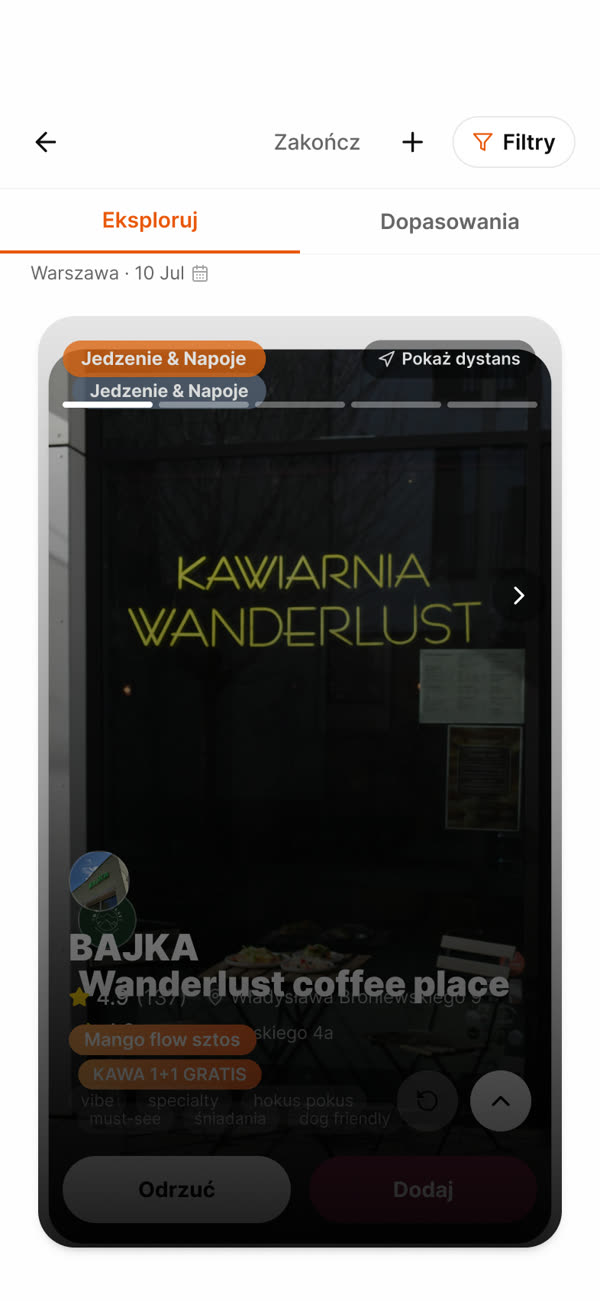
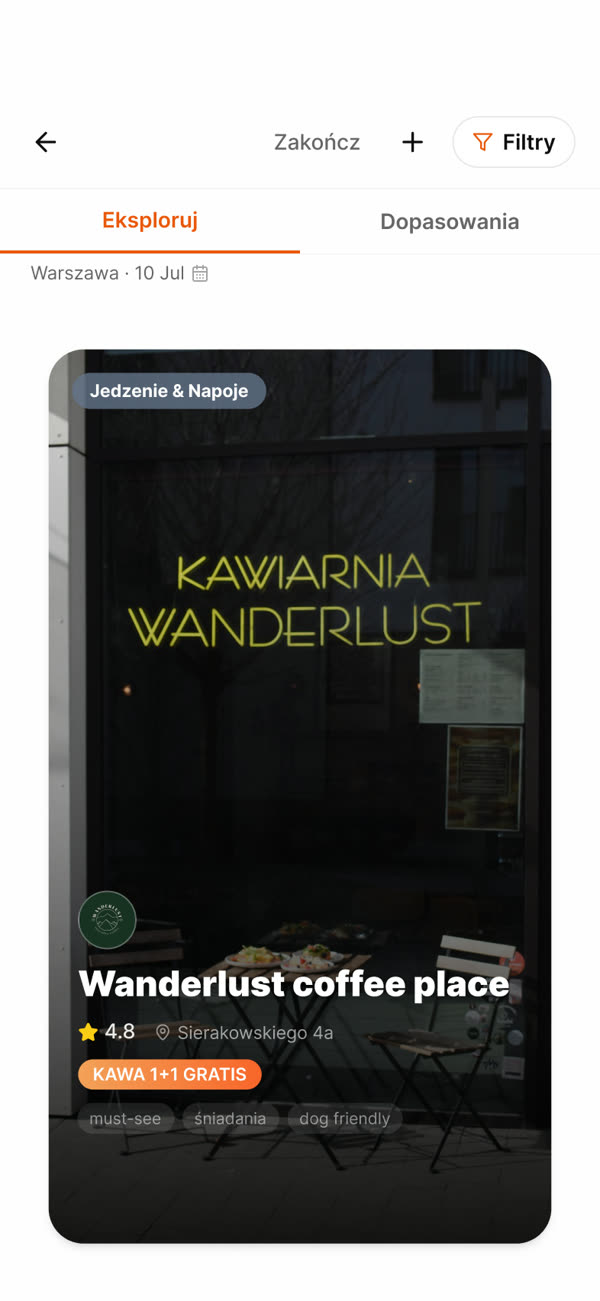
fix(landing v2): czysty ekran przegladania (bez prześwitu) + rowne badge'y
- "jak to dziala" krok 2: podmiana na czysta karte miejsca (KAWIARNIA
  WANDERLUST, pelna opacity) zamiast stanu mid-swipe gdzie karta byla
  polprzezroczysta i przeswituje karta pod spodem
- StoreBadges: przyciety google-play-badge-trim.png (usuniety 41px transparent
  padding) -> oba badge'y wypelniaja plotno, ta sama wysokosc h-50 = ta sama
  wielkosc. Google Play juz nie mniejszy od App Store

Changed region(s): [[0.06, 0.246, 0.96, 0.9839]]

diff --git a/src/pages/LandingV2.tsx b/src/pages/LandingV2.tsx
@@ -105,16 +105,16 @@ function Phone({ width = 260, ar = "430 / 872", float = false, rotate = 0, bare 
 // ─── Store badges (island) ────────────────────────────────────────────────────
 
 function StoreBadges({ center = false }: { center?: boolean }) {
-  // Google Play ma szary border + wewnetrzny transparent padding, wiec renderuje sie
-  // wizualnie mniejszy przy tej samej wysokosci - dajemy mu wieksza h zeby zrownac pigulki.
+  // Oba badge'y wypelniaja plotno pixel-perfect (Google Play przyciety z transparent
+  // paddingu -> google-play-badge-trim.png), wiec ta sama wysokosc = ta sama wielkosc.
   const link = "group inline-flex transition-transform duration-500 hover:-translate-y-0.5 active:scale-[0.98]";
   return (
     <div className={`flex flex-col sm:flex-row gap-3 items-center ${center ? "sm:justify-center" : "sm:justify-start"}`} style={{ transitionTimingFunction: EASE }}>
       <a href={APP_STORE_URL} onClick={(e) => { if (APP_STORE_URL === "#") e.preventDefault(); posthog.capture("landing_store_click", { store: "app_store", v: 2 }); }} className={link} aria-label="Pobierz z App Store">
-        <img src="/Pobierz-z-App-Store.png" alt="Pobierz z App Store" className="h-[46px] w-auto object-contain drop-shadow-sm" draggable={false} />
+        <img src="/Pobierz-z-App-Store.png" alt="Pobierz z App Store" className="h-[50px] w-auto object-contain drop-shadow-sm" draggable={false} />
       </a>
       <a href={PLAY_STORE_URL} onClick={(e) => { if (PLAY_STORE_URL === "#") e.preventDefault(); posthog.capture("landing_store_click", { store: "play_store", v: 2 }); }} className={link} aria-label="Pobierz z Google Play">
-        <img src="/google-play-badge.png" alt="Pobierz z Google Play" className="h-[58px] w-auto object-contain drop-shadow-sm" draggable={false} />
+        <img src="/google-play-badge-trim.png" alt="Pobierz z Google Play" className="h-[50px] w-auto object-contain drop-shadow-sm" draggable={false} />
       </a>
     </div>
   );
